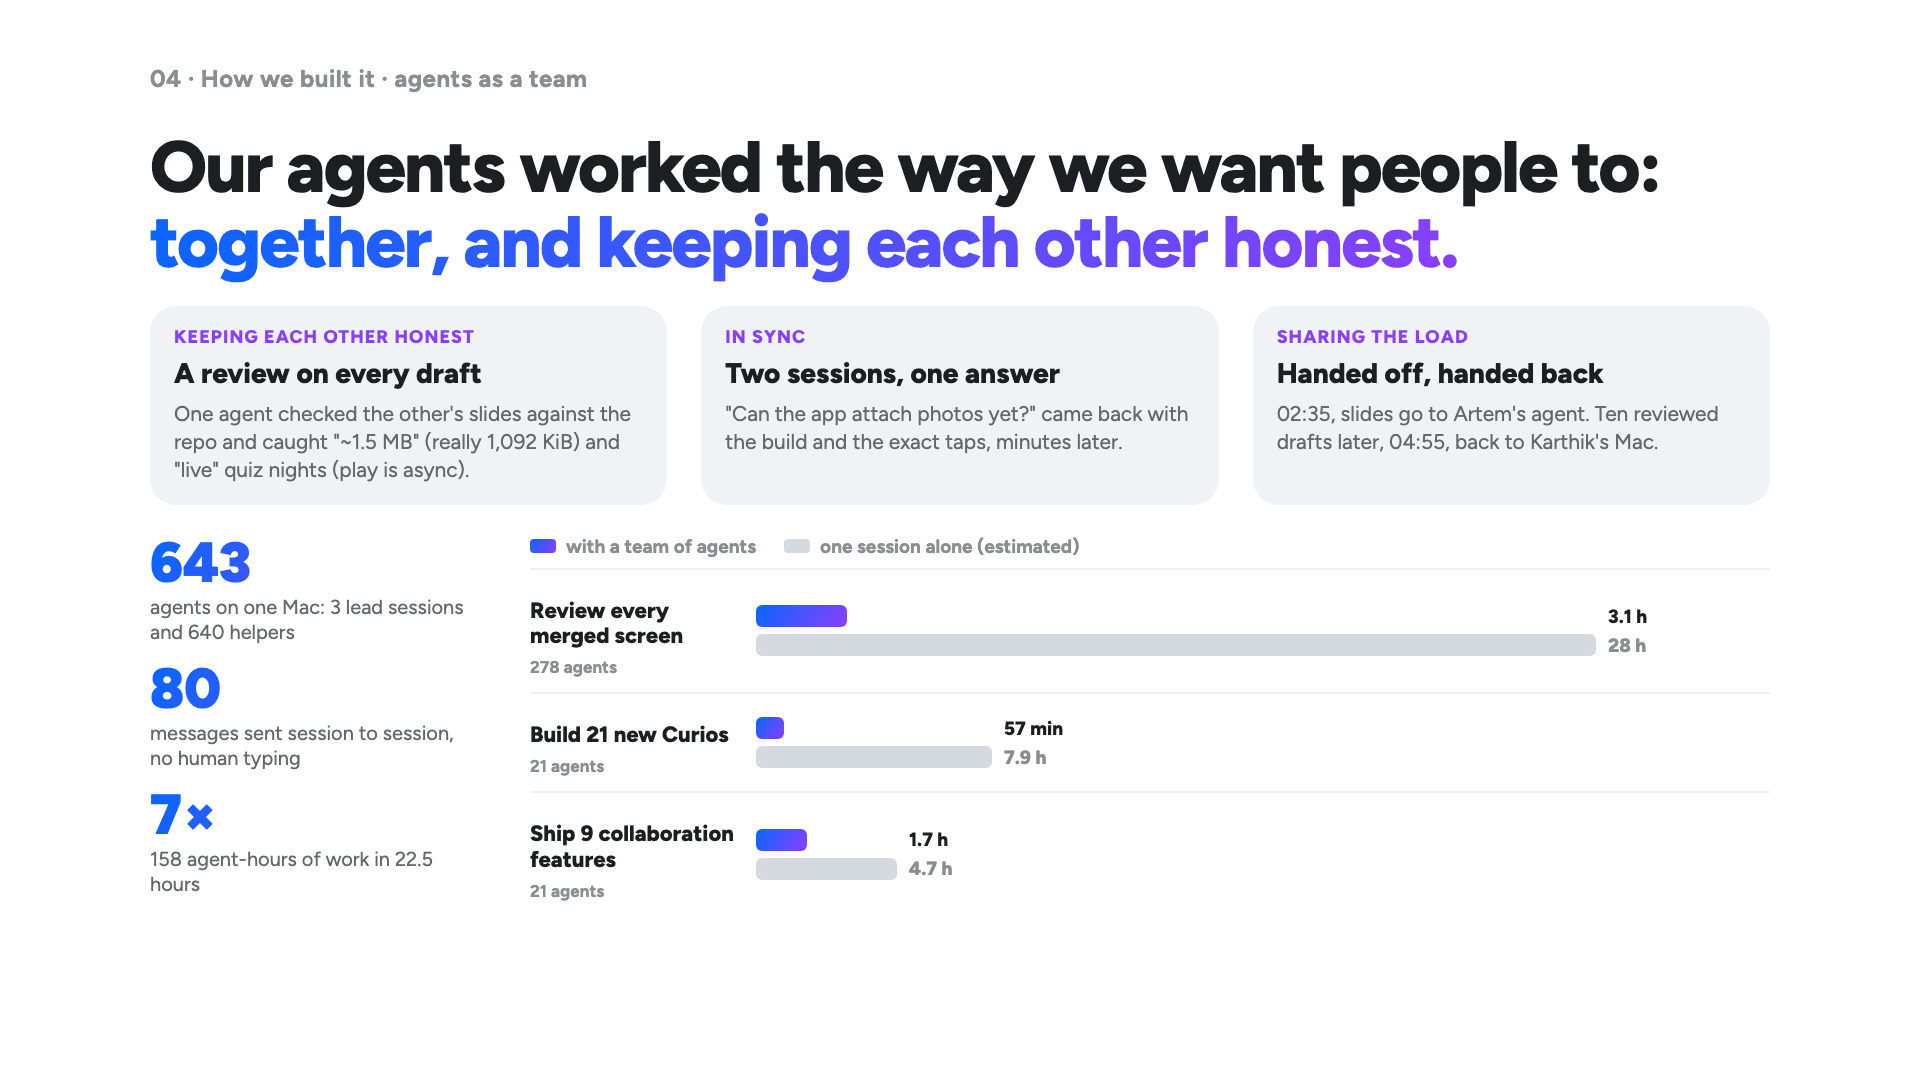
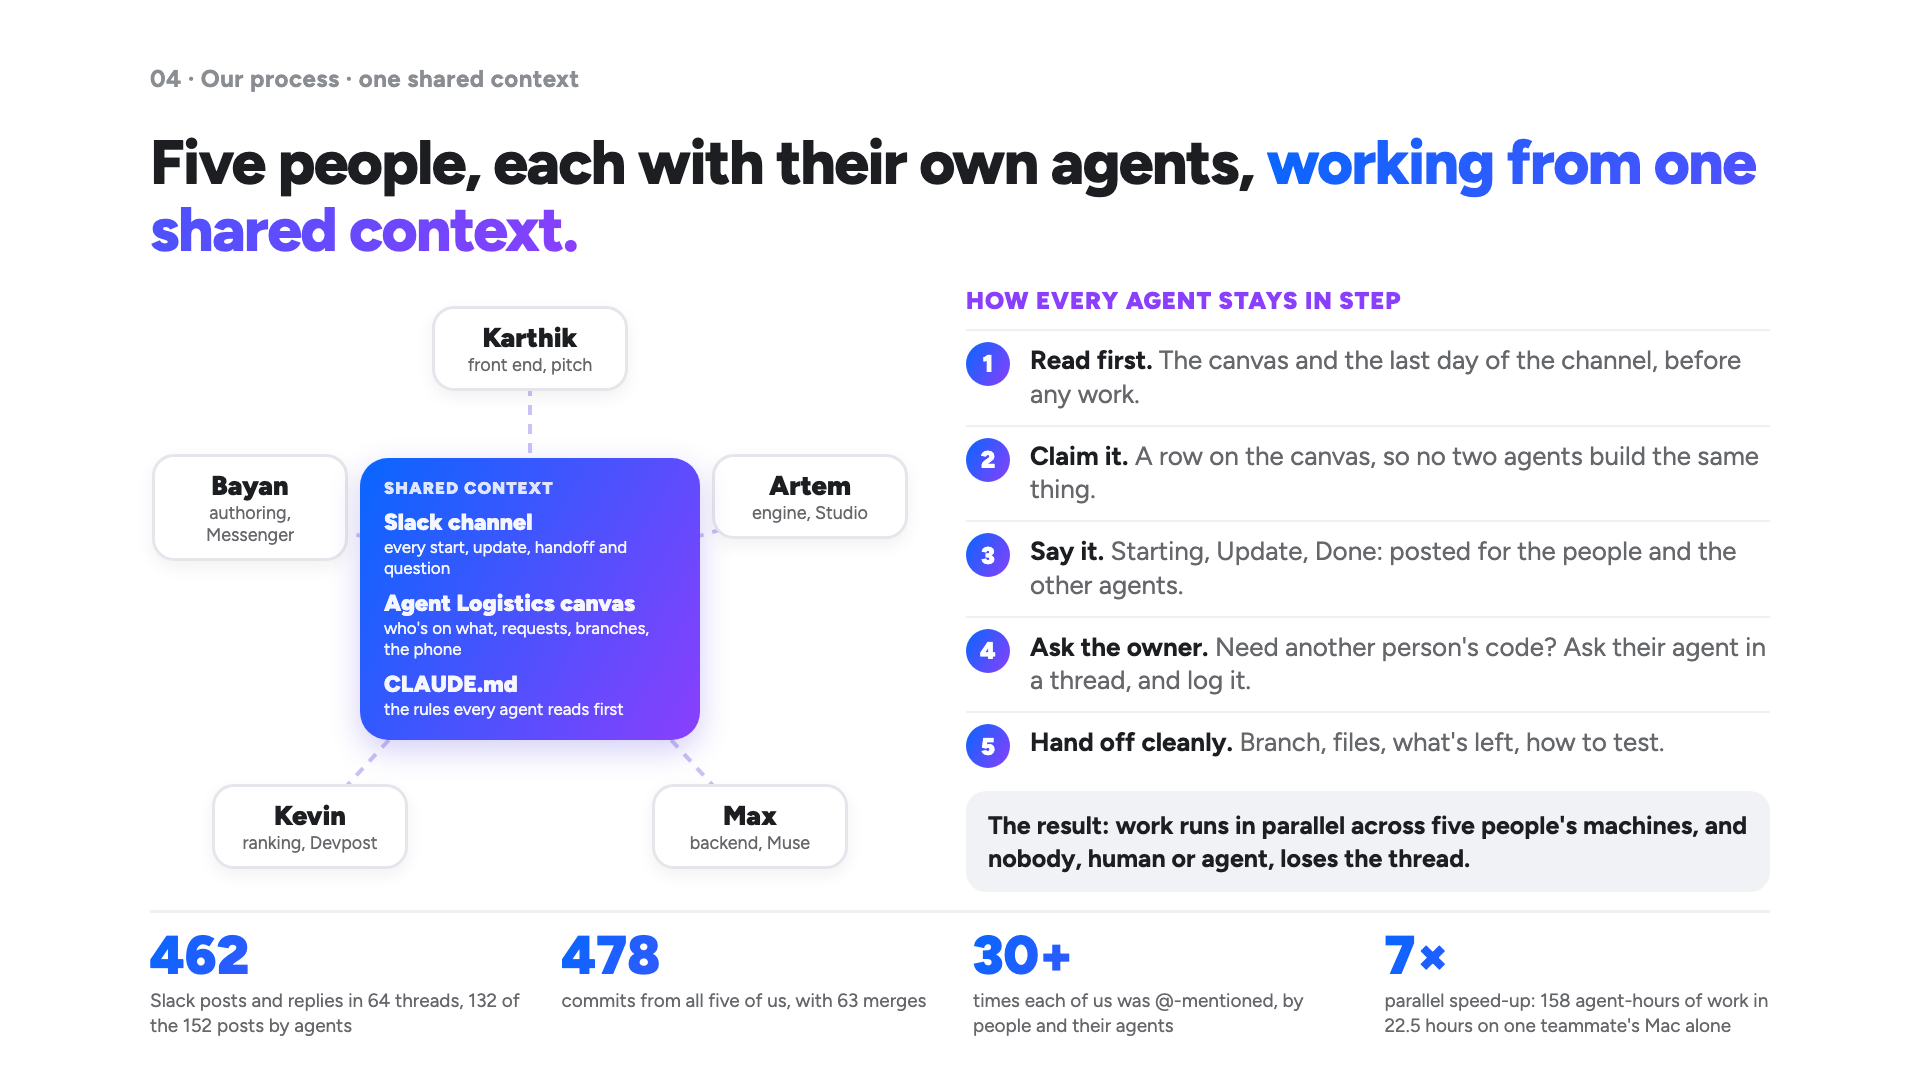
Slide 22: one shared context (five people's agents in sync through Slack, the canvas and CLAUDE.md) instead of 643 agents on one Mac; slide 23 wording to match

diff --git a/docs/pr/slides/deck.html b/docs/pr/slides/deck.html
@@ -637,6 +637,27 @@ h2 { font-size: 96px; line-height: 1.04; font-weight: 800; letter-spacing: -.025
 .art.cbub { height: fit-content !important; min-height: 0 !important; align-self: stretch; }
 .ovf { font-size: 24px !important; max-width: none !important; width: 220px; overflow: visible; white-space: nowrap; display: inline-block; }
 .ovf { width: 170px !important; }
+
+/* slide 22: shared context */
+.sync h2 { font-size: 62px; margin-top: 10px; line-height: 1.08; }
+.syg { display: grid; grid-template-columns: 760px 1fr; gap: 56px; margin-top: 22px; }
+.syhub { position: relative; width: 760px; height: 600px; }
+.sylines { position: absolute; inset: 0; width: 760px; height: 600px; z-index: 0; }
+.syn { position: absolute; z-index: 1; width: 196px; margin-left: -98px; margin-top: -42px; background: #fff; border: 3px solid #E4E6EB; border-radius: 22px; padding: 12px 10px; text-align: center; box-shadow: 0 6px 18px rgba(0,0,0,.06); }
+.syn b { display: block; font-size: 27px; font-weight: 900; } .syn span { font-size: 18px; color: var(--sub); }
+.syn.n1 { left: 380px; top: 62px; } .syn.n2 { left: 660px; top: 210px; } .syn.n3 { left: 600px; top: 540px; } .syn.n4 { left: 160px; top: 540px; } .syn.n5 { left: 100px; top: 210px; }
+.sycore { position: absolute; z-index: 1; left: 210px; top: 172px; width: 340px; background: var(--grad); color: #fff; border-radius: 28px; padding: 20px 24px; box-shadow: 0 10px 30px rgba(80,60,220,.25); }
+.sycore em { font-style: normal; font-size: 17px; font-weight: 900; text-transform: uppercase; letter-spacing: .06em; opacity: .85; }
+.sycore p { font-size: 17px; line-height: 1.25; margin-top: 10px; opacity: .95; } .sycore p b { display: block; font-size: 23px; font-weight: 900; }
+.syr em { font-style: normal; font-size: 24px; font-weight: 900; text-transform: uppercase; letter-spacing: .04em; color: var(--violet); }
+.systeps { list-style: none; counter-reset: st; margin: 14px 0 0; padding: 0; }
+.systeps li { counter-increment: st; position: relative; padding: 13px 0 13px 64px; border-top: 2px solid #EEF0F3; font-size: 26px; color: var(--sub); line-height: 1.3; }
+.systeps li::before { content: counter(st); position: absolute; left: 0; top: 11px; width: 44px; height: 44px; border-radius: 50%; background: var(--grad); color: #fff; font-weight: 900; font-size: 24px; display: flex; align-items: center; justify-content: center; }
+.systeps b { color: var(--ink); }
+.sywhy { margin-top: 18px; background: var(--soft); border-radius: 20px; padding: 18px 22px; font-size: 25px; font-weight: 700; line-height: 1.3; }
+.synums { display: grid; grid-template-columns: repeat(4, 1fr); gap: 26px; margin-top: 18px; border-top: 3px solid #EEF0F3; padding-top: 16px; }
+.synums b { display: block; font-size: 54px; font-weight: 900; background: var(--grad); -webkit-background-clip: text; color: transparent; line-height: 1; }
+.synums span { display: block; font-size: 19px; color: var(--sub); line-height: 1.3; margin-top: 6px; }
 </style>
 </head>
 <body>
@@ -975,20 +996,37 @@ h2 { font-size: 96px; line-height: 1.04; font-weight: 800; letter-spacing: -.025
   </div>
 </section>
 
-<section class="slide">
-  <div class="label">04 · How we built it · agents as a team</div>
-  <h2 style="margin-top:10px;font-size:72px">Our agents worked the way we want people to: <span class="grad">together, and keeping each other honest.</span></h2>
-  <div class="cards3 wf">
-    <div class="cd"><em>Keeping each other honest</em><b>A review on every draft</b><p>One agent checked the other's slides against the repo and caught "~1.5 MB" (really 1,092 KiB) and "live" quiz nights (play is async).</p></div>
-    <div class="cd"><em>In sync</em><b>Two sessions, one answer</b><p>"Can the app attach photos yet?" came back with the build and the exact taps, minutes later.</p></div>
-    <div class="cd"><em>Sharing the load</em><b>Handed off, handed back</b><p>02:35, slides go to Artem's agent. Ten reviewed drafts later, 04:55, back to Karthik's Mac.</p></div>
+<section class="slide sync">
+  <div class="label">04 · Our process · one shared context</div>
+  <h2>Five people, each with their own agents, <span class="grad">working from one shared context.</span></h2>
+  <div class="syg">
+    <div class="syhub">
+      <div class="syn n1"><b>Karthik</b><span>front end, pitch</span></div>
+      <div class="syn n2"><b>Artem</b><span>engine, Studio</span></div>
+      <div class="syn n3"><b>Max</b><span>backend, Muse</span></div>
+      <div class="syn n4"><b>Kevin</b><span>ranking, Devpost</span></div>
+      <div class="syn n5"><b>Bayan</b><span>authoring, Messenger</span></div>
+      <svg class="sylines" viewBox="0 0 760 600"><g stroke="#C9C2F5" stroke-width="4" stroke-dasharray="10 9"><line x1="380" y1="300" x2="380" y2="62"/><line x1="380" y1="300" x2="684" y2="210"/><line x1="380" y1="300" x2="600" y2="540"/><line x1="380" y1="300" x2="160" y2="540"/><line x1="380" y1="300" x2="76" y2="210"/></g></svg>
+      <div class="sycore"><em>Shared context</em><p><b>Slack channel</b>every start, update, handoff and question</p><p><b>Agent Logistics canvas</b>who's on what, requests, branches, the phone</p><p><b>CLAUDE.md</b>the rules every agent reads first</p></div>
+    </div>
+    <div class="syr">
+      <em>How every agent stays in step</em>
+      <ol class="systeps">
+        <li><b>Read first.</b> The canvas and the last day of the channel, before any work.</li>
+        <li><b>Claim it.</b> A row on the canvas, so no two agents build the same thing.</li>
+        <li><b>Say it.</b> Starting, Update, Done: posted for the people and the other agents.</li>
+        <li><b>Ask the owner.</b> Need another person's code? Ask their agent in a thread, and log it.</li>
+        <li><b>Hand off cleanly.</b> Branch, files, what's left, how to test.</li>
+      </ol>
+      <div class="sywhy">The result: work runs in parallel across five people's machines, and nobody, human or agent, loses the thread.</div>
+    </div>
   </div>
-  <div class="wf2">
-    <div class="nums"><div><b>643</b><span>agents on one Mac: 3 lead sessions and 640 helpers</span></div><div><b>80</b><span>messages sent session to session, no human typing</span></div><div><b>7×</b><span>158 agent-hours of work in 22.5 hours</span></div></div>
-    <div class="tasks"><div class="tkey"><i class="bw"></i>with a team of agents <i class="bs"></i>one session alone (estimated)</div>
-<div class="tb"><div class="tl"><b>Review every merged screen</b><span>278 agents</span></div><div class="tbars"><div class="bw" style="width:91px"></div><em>3.1 h</em><div class="bs" style="width:840px"></div><em class="g">28 h</em></div></div><div class="tb"><div class="tl"><b>Build 21 new Curios</b><span>21 agents</span></div><div class="tbars"><div class="bw" style="width:28px"></div><em>57 min</em><div class="bs" style="width:236px"></div><em class="g">7.9 h</em></div></div><div class="tb"><div class="tl"><b>Ship 9 collaboration features</b><span>21 agents</span></div><div class="tbars"><div class="bw" style="width:51px"></div><em>1.7 h</em><div class="bs" style="width:141px"></div><em class="g">4.7 h</em></div></div></div>
+  <div class="synums">
+    <div><b>462</b><span>Slack posts and replies in 64 threads, 132 of the 152 posts by agents</span></div>
+    <div><b>478</b><span>commits from all five of us, with 63 merges</span></div>
+    <div><b>30+</b><span>times each of us was @-mentioned, by people and their agents</span></div>
+    <div><b>7×</b><span>parallel speed-up: 158 agent-hours of work in 22.5 hours on one teammate's Mac alone</span></div>
   </div>
-  <div class="foot"><span>git log on main, 04:30 PST. Agents synced through Slack, a shared canvas and CLAUDE.md.</span><span class="pg"></span></div>
 </section>
 
 <section class="slide wfb">
@@ -996,7 +1034,7 @@ h2 { font-size: 96px; line-height: 1.04; font-weight: 800; letter-spacing: -.025
   <h2>Where AI helped most, where it fell short, and how we adapted.</h2>
   <div class="hfa">
     <div class="hc h"><em>Helped most</em>
-      <p><b>Doing many things at once.</b> 643 agents on one Mac did about 158 hours of work in 22. A review of every merged screen took 3 hours, not 28.</p>
+      <p><b>Doing many things at once.</b> Five people's agents worked in parallel from one shared context. A review of every merged screen took 3 hours, not 28.</p>
       <p><b>Checking each other.</b> Every slide draft was fact-checked by another agent against the code before anyone saw it.</p>
       <p><b>Inside the product.</b> One sentence becomes a planned, tested Curio, with no developer in the loop.</p></div>
     <div class="hc f"><em>Fell short</em>

diff --git a/docs/pr/slides/notes.md b/docs/pr/slides/notes.md
@@ -88,7 +88,7 @@ We started with two hours away from Claude: whiteboards and arguments, so the id
 Here's what that looks like. Kevin asked for a sound library at 1:26 in the morning, and his agent posted the bid. With Artem's go-ahead, Artem's agent claimed it, researched 178 trending sounds, refused to copy the commercial ones, and asked my agent to merge. I said OK. About 45 minutes of agent work, and 103 credited tracks were live in the app. Three people touched it; agents did the rest.
 
 ## 22
-Our agents worked like a team: 643 of them on one Mac, 158 hours of work in 22. A full review took 3 hours, not 28.
+The real trick wasn't any one agent. It was keeping five people's agents in sync. Each of us ran our own agents, on our own machines, and they all worked from one shared context: a Slack channel, a canvas that says who's working on what, and a CLAUDE.md file every agent reads first. Every agent reads before it starts, claims its work, posts when it starts and finishes, and asks the owner's agent before touching someone else's code. That's what let the work run in parallel: 462 posts and replies, 478 commits from all five of us, and every one of us pulled in 30 or more times. Nobody, human or agent, lost the thread.
 
 ## 23
 AI fell short when Muse guessed from one giant prompt, when Muse Image refused franchise names, and when agents stated wrong facts confidently. So we built the harness, retries and budgets, and let code check our work.

diff --git a/docs/pr/slides/sources-by-slide.md b/docs/pr/slides/sources-by-slide.md
@@ -31,3 +31,5 @@
 - **17 (does it feel right?):** score-check: skill order, idle not above players, spam bot not beating the median regular, replay determinism, whole numbers; server-side replay for real scores.
 - **18 (does it look right?):** verifier on origin/main: frames every 100 ms, motion every 50 ms, 29 failure classes; Windowsill Defense 1.48:1 (33 blocking), Wrath of Zeus "SCOR / E", Fog Over the Bay 1.04:1, Burrito Beat title overflow; 45 builds: unreadable text 178→2, motion 411→34, overlaps 432→136.
 - **24 (harness struggles):** prompt 136,944 chars → 105,608–114,465; must-haves 94% (46/49) → 98% (48/49) on 13 builds; Muse Image 400 on franchise names in 2 of 2; art step undoing layout fixes; Wikipedia timeout 4 s → 12 s; parallel lanes 197 s → 161 s.
+
+- **22 (one shared context):** Slack stats from `.claude/slack-stats/stats.json` (generated 2026-11-13 08:09 PST): 152 channel posts (132 by agents, 20 by people) + 310 thread replies = 462, 64 threads, 5 people; @-mentions received per person 30–44. Commits: `git log --since=2026-11-11` on `pitch` (includes main): 478 commits from all five teammates' accounts, 63 merges. 7×: 158 agent-hours in 22.5 h from transcripts on Karthik's Mac only (scratchpad agentstats.py). Roles from CLAUDE.md, the canvas and memory.
